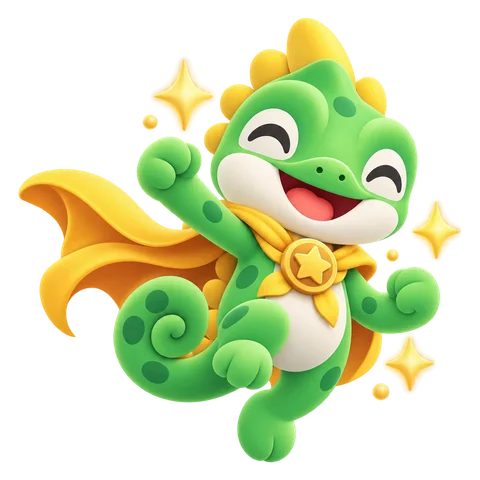
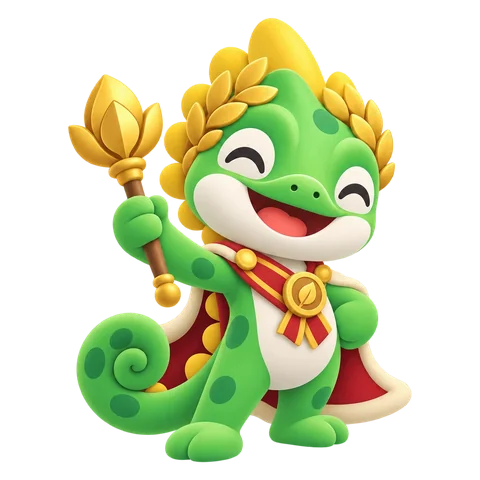
Rang-Maskottchen neu zugeordnet, Rang 7 heisst "Mythisch"
- Scout und Sammler getauscht; Umhang-Modell auf Rang 4 (Champion),
  Pokal auf Rang 5 (Meister), Lorbeer auf Rang 6 (Legende)
- Lage je Modell unveraendert uebernommen, Strahlen mitgezogen,
  Vorschaubilder der Rang-Seite neu; Geschenke-Platzhalter bleibt das
  Modell mit den Gutscheinen

diff --git a/public/app.js b/public/app.js
@@ -4825,7 +4825,7 @@ function renderGiftsPage() {
     if (host.querySelector('.gifts-leer')) return; // steht schon, nicht neu einblenden
     host.innerHTML = `
       <div class="gifts-leer">
-        <img class="gifts-leer-bild" src="/brand/kumulio-rang-sammler-480.webp" width="200" height="200" alt="" decoding="async" draggable="false">
+        <img class="gifts-leer-bild" src="/brand/kumulio-rang-scout-480.webp" width="200" height="200" alt="" decoding="async" draggable="false">
         <b>Gerade wartet hier kein Geschenk</b>
         <p>Schenkt dir ein Freund einen Gutschein, liegt er hier, bis du ihn auspackst.</p>
       </div>`;
@@ -4985,7 +4985,7 @@ function openGiftReveal(gift) {
     }
   });
 }
-// Mit Tausenderpunkt: ab 1000 € (Rang Mythos) sonst "1215,00 €"
+// Mit Tausenderpunkt: ab 1000 € (Rang Mythisch) sonst "1215,00 €"
 function euroFmt(n) { return n == null ? '' : n.toFixed(2).replace('.', ',').replace(/\B(?=(\d{3})+(?!\d))/g, '.') + ' €'; }
 
 // ---- Spielgefühl: Sounds, Vibration, Aufleuchten, Geldscheine, Zähl-Animation ----
@@ -5091,7 +5091,7 @@ const RANKS = [
   { tier: 4, slug: 'champion', name: 'Champion', min: 150.01, bis: 300 },
   { tier: 5, slug: 'meister', name: 'Meister', min: 300.01, bis: 600 },
   { tier: 6, slug: 'legende', name: 'Legende', min: 600.01, bis: 1000 },
-  { tier: 7, slug: 'mythos', name: 'Mythos', min: 1000.01, bis: Infinity },
+  { tier: 7, slug: 'mythos', name: 'Mythisch', min: 1000.01, bis: Infinity },
 ];
 function rankFor(total) {
   // In Cent vergleichen: 10,01 ist als Kommazahl nicht exakt
@@ -9651,12 +9651,12 @@ const WALLET_MASKOTTCHEN = {
   standard: { basis: '/brand/kumulio-maskottchen-standard', licht: [.268, .369] },
   // Modelle des Nutzers je Rang. Lage und Groesse stecken im Bild (1389 x 1404,
   // siehe look.css .wk-sprite); licht = Mitte der Strahlen hinter dem Kopf
-  scout: { basis: '/brand/kumulio-maskottchen-scout', licht: [0.2915, 0.3775] },
-  sammler: { basis: '/brand/kumulio-maskottchen-sammler', licht: [0.2836, 0.3775] },
+  scout: { basis: '/brand/kumulio-maskottchen-scout', licht: [0.2836, 0.3775] },
+  sammler: { basis: '/brand/kumulio-maskottchen-sammler', licht: [0.2915, 0.3775] },
   profi: { basis: '/brand/kumulio-maskottchen-profi', licht: [0.2959, 0.3775] },
-  champion: { basis: '/brand/kumulio-maskottchen-champion', licht: [0.353, 0.3775] },
-  meister: { basis: '/brand/kumulio-maskottchen-meister', licht: [0.2186, 0.3775] },
-  legende: { basis: '/brand/kumulio-maskottchen-legende', licht: [0.2248, 0.3775] },
+  champion: { basis: '/brand/kumulio-maskottchen-champion', licht: [0.2248, 0.3775] },
+  meister: { basis: '/brand/kumulio-maskottchen-meister', licht: [0.353, 0.3775] },
+  legende: { basis: '/brand/kumulio-maskottchen-legende', licht: [0.2186, 0.3775] },
   mythos: { basis: '/brand/kumulio-maskottchen-mythos', licht: [0.3117, 0.3775] },
 };
 function setzeWalletMaskottchen(slug) {
